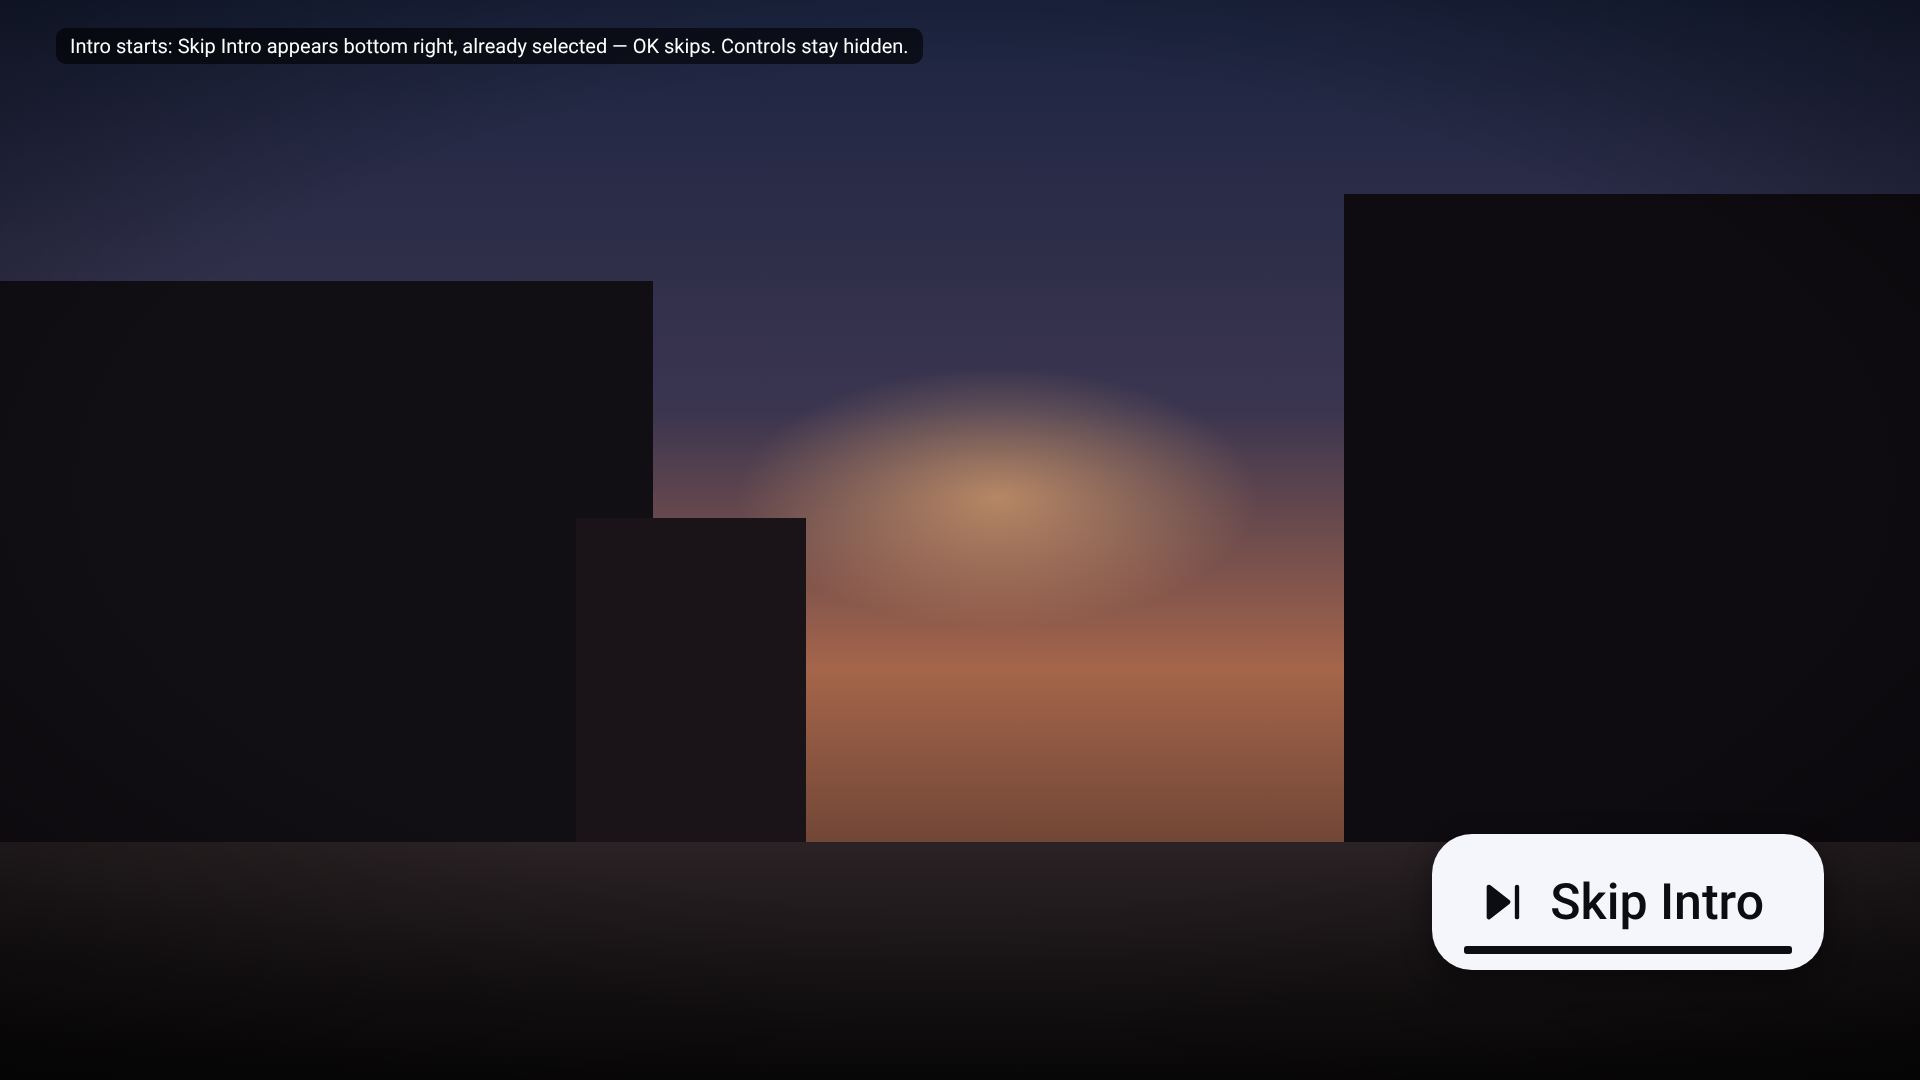
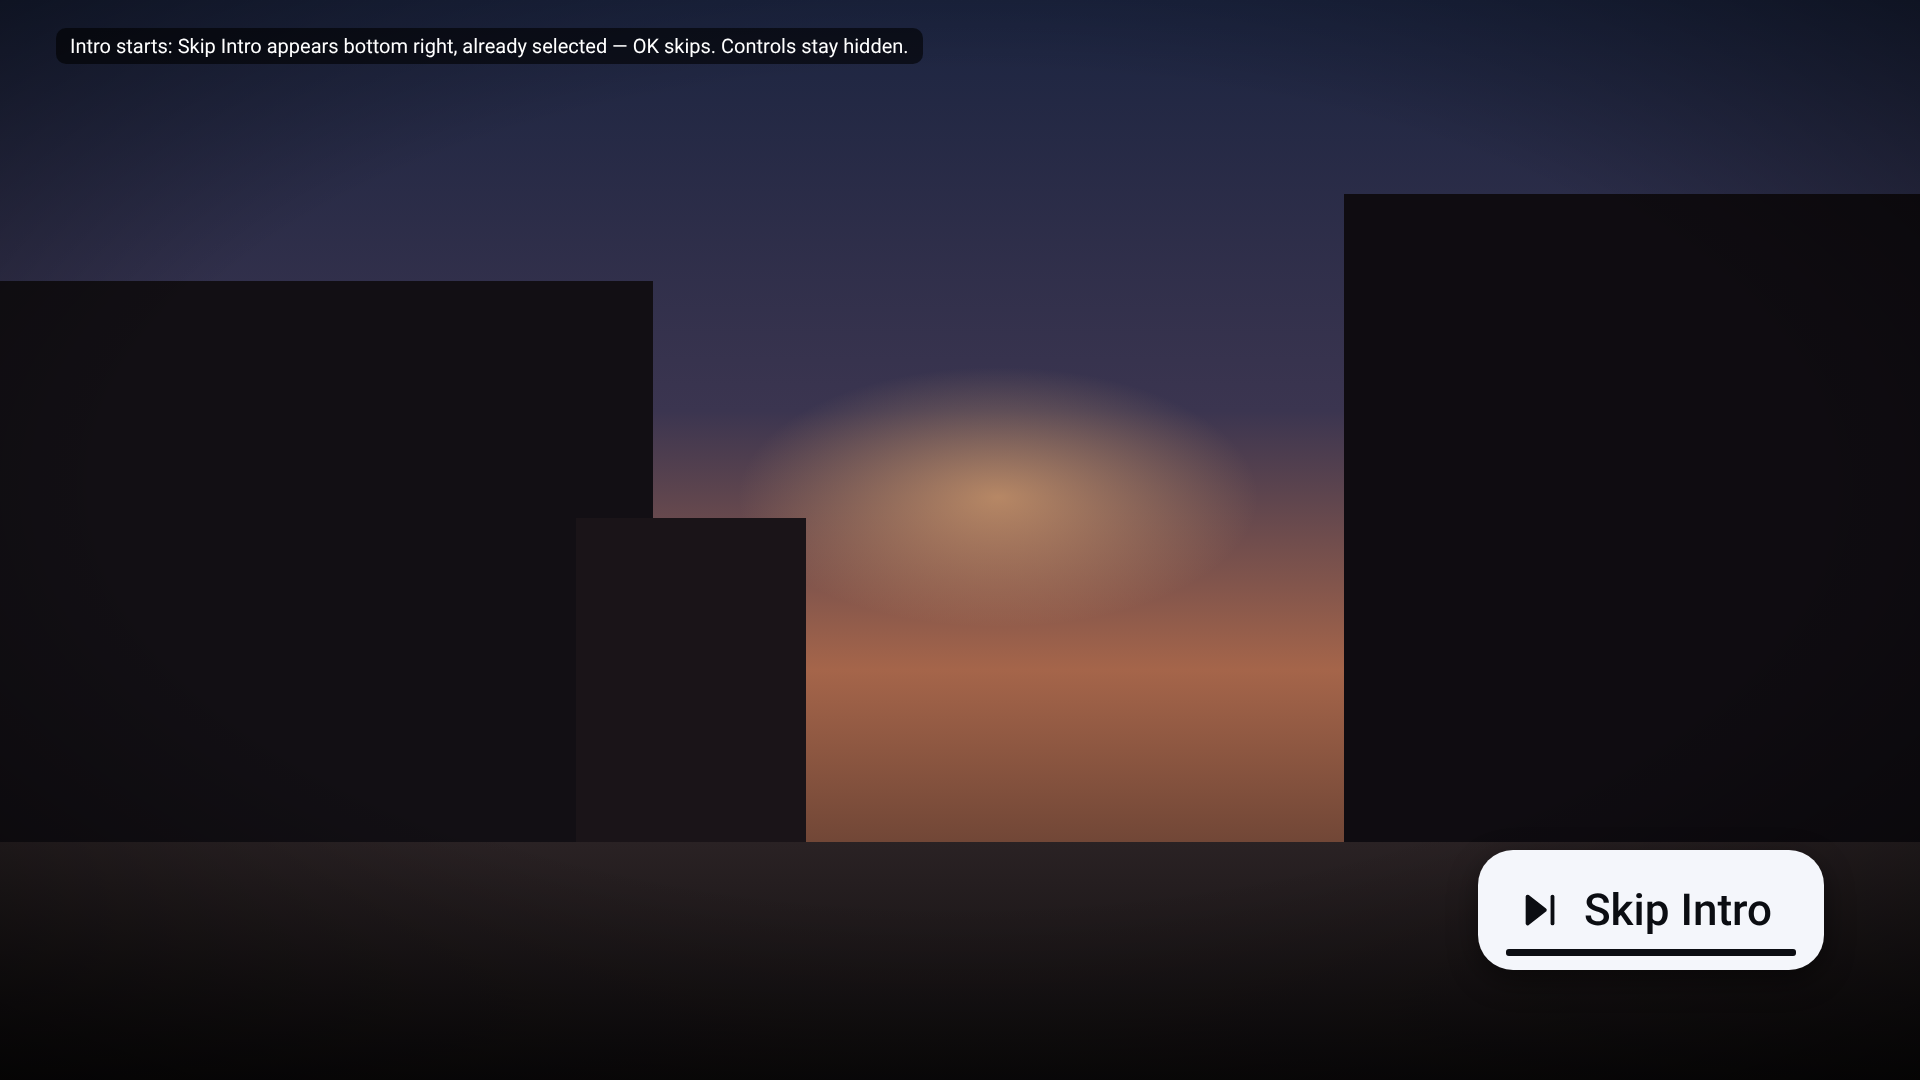
Skip button: 120px, timing approved
Claude-Session: https://claude.ai/code/session_01FtDZqamY6pdaUKwc7fqgiA

Changed region(s): [[0.7188, 0.7639, 0.9688, 0.9167]]

diff --git a/docs/design/proposals/skip-button/render.js b/docs/design/proposals/skip-button/render.js
@@ -9,7 +9,7 @@ const P = { skip: '<path d="M5 5l9 7-9 7z" fill="currentColor"/><path d="M18 5v1
 const ic = (k, s = 30) => `<svg width="${s}" height="${s}" viewBox="0 0 24 24" fill="none" stroke="currentColor" stroke-width="2" stroke-linecap="round" stroke-linejoin="round">${P[k]}</svg>`;
 // A stand-in film frame (no real artwork): dusky street scene in gradients.
 const frame = `<div class="video"><i class="sky"></i><i class="glow"></i><i class="b1"></i><i class="b2"></i><i class="b3"></i><i class="road"></i><i class="vig"></i></div>`;
-const skip = (left, where) => `<div class="skip ${where}"><span>${ic('skip', 52)}Skip Intro</span><i class="cd"><b style="width:${left * 100}%"></b></i></div>`;
+const skip = (left, where) => `<div class="skip ${where}"><span>${ic('skip', 46)}Skip Intro</span><i class="cd"><b style="width:${left * 100}%"></b></i></div>`;
 const hud = `<div class="htitle">Slow Horses</div><div class="hsub">Season 5 · Episode 2 · Opening titles</div>
   <div class="hud"><div class="hb">${ic('pause', 34)}</div><div class="bar"><div class="buf"></div><div class="played"></div><div class="thumb"></div>
   <div class="bubble"><b>00:01:12</b><span>Intro</span></div></div><div class="hb">${ic('gear', 30)}<span>Settings</span></div></div>`;
@@ -27,10 +27,10 @@ body{width:1920px;height:1080px;overflow:hidden;font-family:R;color:#fff;positio
 .b3{left:30%;bottom:22%;width:12%;height:30%;background:#1a1418}.road{left:0;right:0;bottom:0;height:22%;background:linear-gradient(180deg,#2a2224,#0c0a0b)}
 .vig{inset:0;background:radial-gradient(ellipse 80% 70% at 50% 45%,rgba(0,0,0,0) 55%,rgba(0,0,0,.6))}
 .shade{position:absolute;inset:0;background:linear-gradient(0deg,rgba(0,0,0,.75) 0%,rgba(0,0,0,0) 45%)}
-.skip{position:absolute;height:136px;padding:0 60px 0 46px;border-radius:40px;background:#F4F6FB;color:#0B0D12;font-size:50px;font-weight:500;
+.skip{position:absolute;height:120px;padding:0 52px 0 40px;border-radius:35px;background:#F4F6FB;color:#0B0D12;font-size:44px;font-weight:500;
   display:flex;align-items:center;box-shadow:0 10px 30px rgba(0,0,0,.45);overflow:hidden}
 .skip span{display:flex;align-items:center;gap:20px}
-.skip .cd{position:absolute;left:32px;right:32px;bottom:16px;height:8px;border-radius:3px;background:rgba(11,13,18,.15)}.skip .cd b{display:block;height:100%;border-radius:3px;background:#0B0D12}
+.skip .cd{position:absolute;left:28px;right:28px;bottom:14px;height:7px;border-radius:3px;background:rgba(11,13,18,.15)}.skip .cd b{display:block;height:100%;border-radius:3px;background:#0B0D12}
 .skip.br{right:96px;bottom:110px}.skip.br.up{bottom:270px}.skip.bl{left:96px;bottom:110px}
 .htitle{position:absolute;left:80px;top:690px;font-size:60px;font-weight:700}.hsub{position:absolute;left:84px;top:768px;font-size:26px}
 .hud{position:absolute;left:70px;right:70px;bottom:90px;height:80px;display:flex;align-items:center;gap:26px}

diff --git a/docs/0.155/OWNER_NOTES.md b/docs/0.155/OWNER_NOTES.md
@@ -213,4 +213,6 @@ Codex's branch `codex/0155-code-2026-11-04` (DP-01…DP-07, TV-only stages). **N
   and brings it back with the on-screen controls; Jellyfin's Intro Skipper can show it for the whole intro. Proposed:
   **10 seconds** with the countdown, then it fades, but opening the controls brings it back (selected) until the
   intro ends.
-- **Status:** placement and look decided; size and timing awaiting the owner's approval — then awaiting go-ahead to code.
+- **Owner (4 Nov 2026):** timing approved as proposed; 136px too big. Revised `01`–`03`: about 120px tall with 44px text
+  (between the 104px and 136px versions).
+- **Status:** placement, look and timing approved; size awaiting the owner's approval — then awaiting go-ahead to code.
